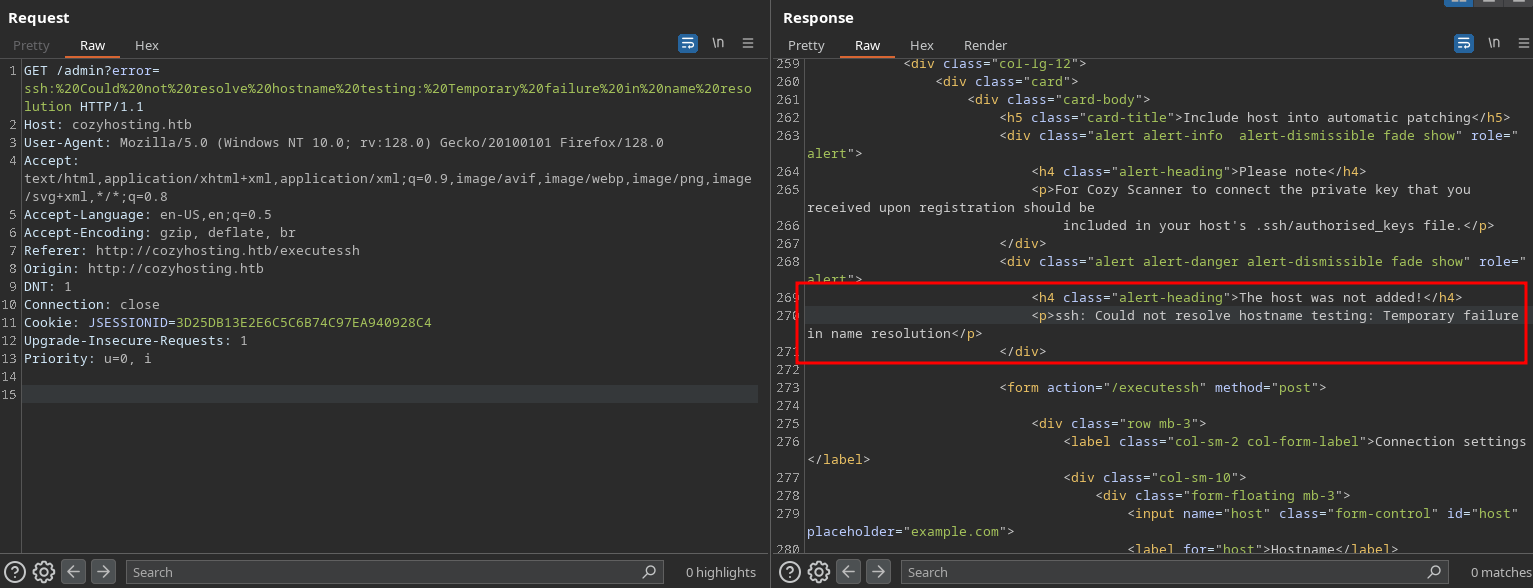
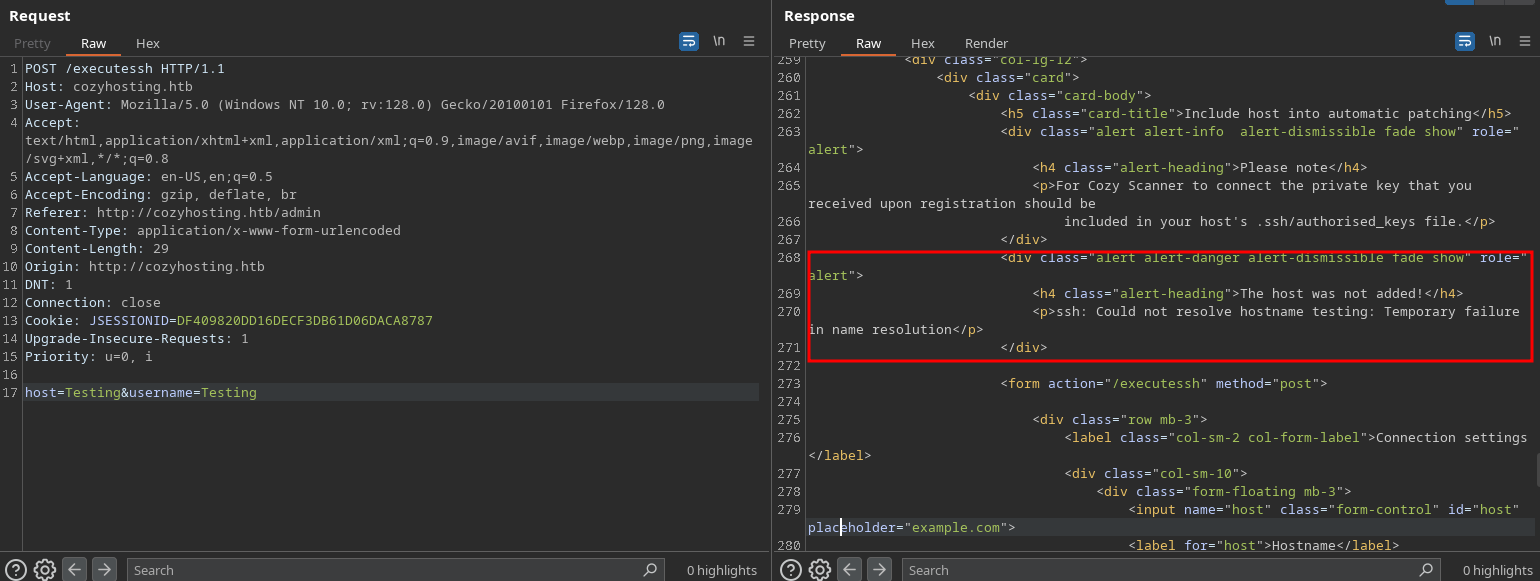
Add a new image

diff --git a/_writeups/2024/HTB/CozyHosting.md b/_writeups/2024/HTB/CozyHosting.md
@@ -185,3 +185,9 @@ Let's intercept the petition with Burp Suite to test different things:
 ![10](../../../assets/images/CozyHosting/10.png)
 
 <br />
+
+As we can see, there is a error in the response "Could not resolve hostname testing", let's try to change the hostname to localhost:
+
+<br />
+
+
